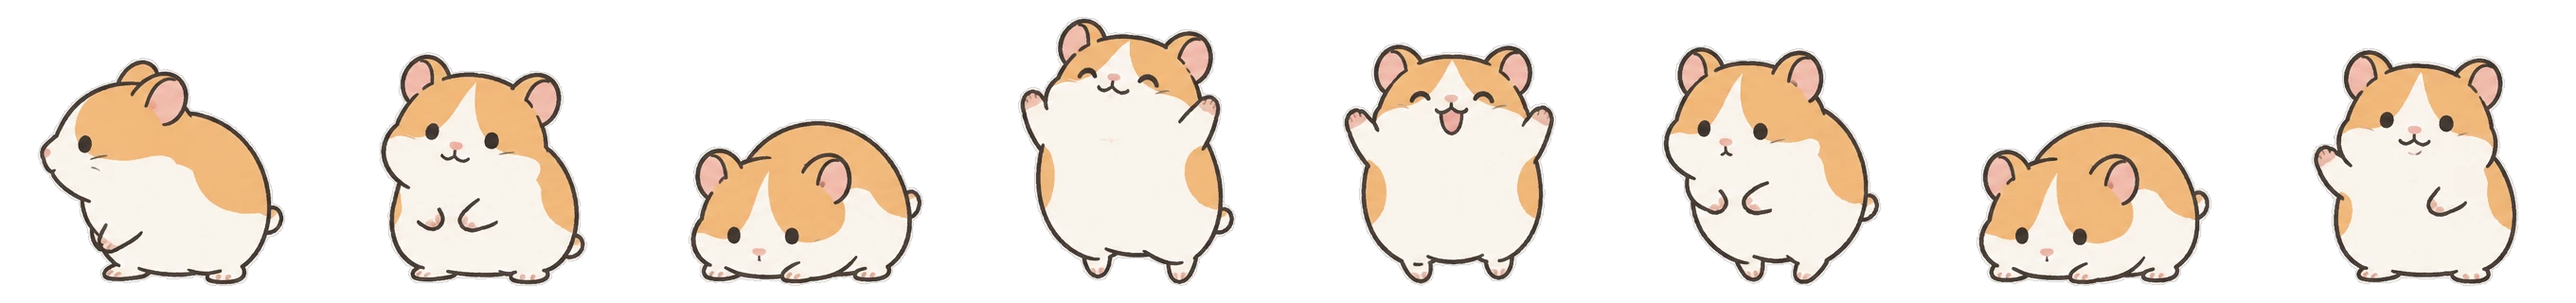
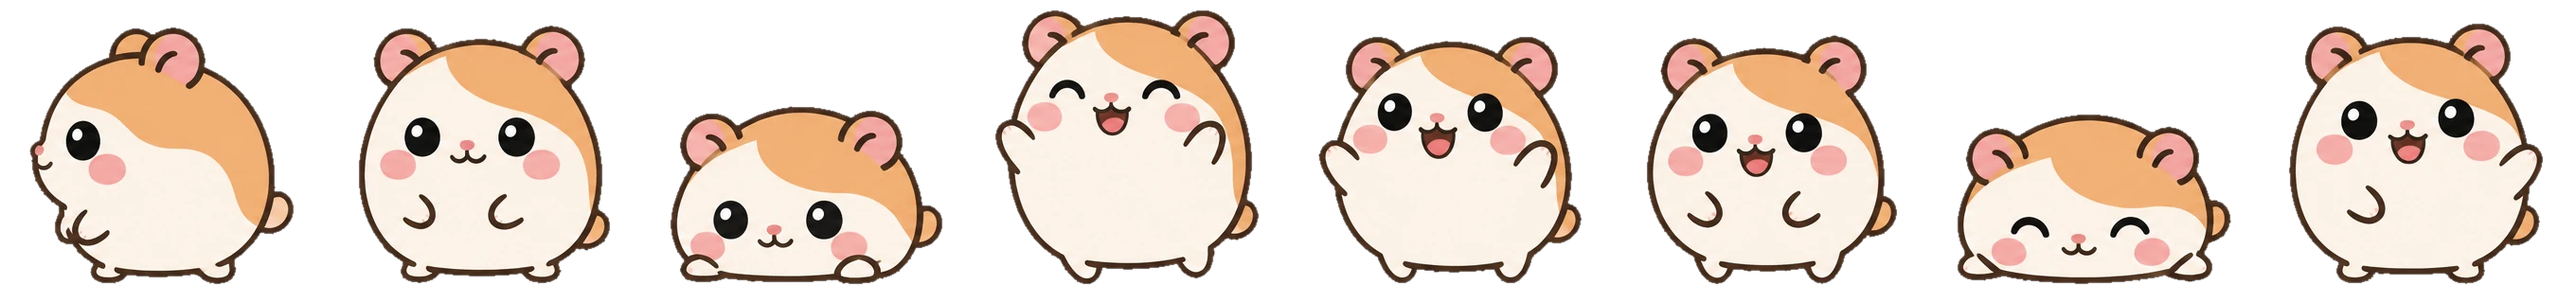
Search: hamster shows only its ears until the bar is tapped, then pops up (soft edge under the bar); invitation is a light sweep across the bar, a button nudge and a typed placeholder; loader: new flat chibi hamster walk and celebrate sprites
Claude-Session: https://claude.ai/code/session_015vAgjDeRSw6soRRSRcNB1f

Changed region(s): [[0.0, 0.0312, 1.0, 0.9375], [0.1562, 0.8438, 0.2188, 0.9375]]

diff --git a/slime.html b/slime.html
@@ -10435,7 +10435,7 @@ html body [data-view="home"] .zq{margin-top:-6px!important}
     /* the empty bar shows the headline's wish as a question; ค้นหา on an empty bar asks it */
     var cur='',tm=0;
     function setQ(){var w=(typ&&typ.textContent||'').trim();if(!w||w===cur)return;cur=w;form.classList.add('ph-sw');
-      setTimeout(function(){inp.setAttribute('placeholder','ลองถาม: อยาก'+w);form.classList.remove('ph-sw')},250)}
+      setTimeout(function(){form.classList.remove('ph-sw');if(window.__zqType)window.__zqType('ลองถาม: อยาก'+w);else inp.setAttribute('placeholder','ลองถาม: อยาก'+w)},250)}
     if(typ){new MutationObserver(function(){if(!inp.value&&inp.getAttribute('placeholder')!==(innerWidth<640?'ถามเราได้เลย':'พิมพ์ถามเราได้เลย น้องอยากทำอะไร'))inp.setAttribute('placeholder',(innerWidth<640?'ถามเราได้เลย':'พิมพ์ถามเราได้เลย น้องอยากทำอะไร'));clearTimeout(tm);tm=setTimeout(function(){var w=(typ.textContent||'').trim();if(w===cur){cur='';setQ()}else setQ()},700)}).observe(typ,{childList:true,characterData:true,subtree:true});setQ()}
     form.addEventListener('submit',function(){if(!inp.value.trim()&&cur){inp.value='อยาก'+cur;inp.dispatchEvent(new Event('input',{bubbles:true}))}},true);
     go&&go.addEventListener('pointerdown',function(){if(!inp.value.trim()&&cur){inp.value='อยาก'+cur;inp.dispatchEvent(new Event('input',{bubbles:true}))}});
@@ -10455,47 +10455,50 @@ html body [data-view="home"] .zq{margin-top:-6px!important}
 })();
 </script>
 <style id="ly-chibi">
-/* the search hamster: a chibi that peeks over the bar; after a while it points at the bar and taps it */
+/* the search hamster: only its ears show over the bar; it pops up when the visitor taps the bar */
 #zqHam{visibility:hidden!important}
-.zq-ch{position:absolute;z-index:5;width:106px;height:75px;cursor:pointer;background:url(img/ham-chibi.webp) 0 0/848px 75px no-repeat;
-  transform-origin:50% 100%;transition:transform .35s cubic-bezier(.3,1.6,.5,1);-webkit-tap-highlight-color:transparent}
-.zq-ch:hover{transform:translateY(-3px)}
-.zq-ch.hop{animation:zqChHop .5s cubic-bezier(.3,1.6,.5,1)}
-@keyframes zqChHop{40%{transform:translateY(-12px) scale(1.04,.97)}}
-.zq-tap{position:absolute;z-index:5;width:30px;height:12px;margin:-6px 0 0 -15px;border-radius:50%;border:2px solid rgba(242,166,94,.9);pointer-events:none;opacity:0}
-.zq-tap.go{animation:zqTap .6s ease-out}
-@keyframes zqTap{0%{opacity:.9;transform:scale(.3)}100%{opacity:0;transform:scale(1.7)}}
-@media (max-width:640px){.zq-ch{width:74px;height:52px;background-size:592px 52px}}
+.zq-ch{position:absolute;z-index:3;width:106px;height:75px;cursor:pointer;background:url(img/ham-chibi.webp) 0 0/848px 75px no-repeat;
+  transform:translateY(var(--hide,58px));transition:transform .5s cubic-bezier(.3,1.5,.5,1);-webkit-tap-highlight-color:transparent}
+.zq-ch:hover{transform:translateY(calc(var(--hide,58px) - 6px))}
+.zq-ch.up,.zq-ch.up:hover{transform:translateY(0)}
+@media (max-width:640px){.zq-ch{width:74px;height:52px;background-size:592px 52px;--hide:41px}}
 html body [data-view="home"] .zq .zq-sw{margin-top:46px!important}
 @media (max-width:640px){html body [data-view="home"] .zq .zq-sw{margin-top:44px!important}}
+/* the invitation lives on the bar itself: a warm light sweeps across it and the button nudges */
+.zq-sh{position:absolute;inset:0;border-radius:inherit;overflow:hidden;pointer-events:none;z-index:0}
+.zq-sh::before{content:"";position:absolute;top:0;bottom:0;left:-40%;width:34%;transform:skewX(-20deg) translateX(0);
+  background:linear-gradient(90deg,rgba(242,166,94,0),rgba(242,166,94,.22) 45%,rgba(255,214,150,.35) 50%,rgba(242,166,94,.22) 55%,rgba(242,166,94,0))}
+#zqForm.inv .zq-sh::before{animation:zqSweep 1.3s cubic-bezier(.45,0,.2,1)}
+@keyframes zqSweep{to{transform:skewX(-20deg) translateX(520%)}}
+#zqForm.inv .zq-go{animation:zqNudge .7s cubic-bezier(.3,1.6,.5,1) 1s}
+@keyframes zqNudge{30%{transform:scale(1.07)}60%{transform:scale(.97)}100%{transform:none}}
+#zqForm>*:not(.zq-sh):not(.zq-halo){position:relative;z-index:1}
+@media (prefers-reduced-motion:reduce){.zq-ch{transition:none}#zqForm.inv .zq-sh::before,#zqForm.inv .zq-go{animation:none}}
 </style>
 <script>
 (function(){
   function go(){var ham=document.getElementById('zqHam'),sw=ham&&ham.closest('.zq-sw'),inp=document.getElementById('zqIn'),form=document.getElementById('zqForm');if(!sw||sw.querySelector('.zq-ch'))return;
     if(getComputedStyle(sw).position==='static')sw.style.position='relative';
-    var rm=matchMedia('(prefers-reduced-motion: reduce)').matches,ch=document.createElement('div');ch.className='zq-ch';ch.setAttribute('aria-hidden','true');sw.appendChild(ch);
-    var tap=document.createElement('i');tap.className='zq-tap';sw.appendChild(tap);
-    var fw=0,cur=-1;
-    function fr(n){if(n===cur)return;cur=n;fw=ch.offsetWidth;ch.style.backgroundPosition=(-n*fw)+'px 0'}
-    function place(){var a=ham.getBoundingClientRect(),f=form.getBoundingClientRect(),r=sw.getBoundingClientRect();fw=ch.offsetWidth;
-      var cx=a.width?a.left+a.width/2:f.left+f.width*.62;ch.style.left=(cx-r.left-fw/2)+'px';ch.style.top=(f.top-r.top-ch.offsetHeight+3)+'px';var c=cur;cur=-1;fr(Math.max(0,c))}
+    var rm=matchMedia('(prefers-reduced-motion: reduce)').matches,ch=document.createElement('div');ch.className='zq-ch';ch.setAttribute('aria-hidden','true');sw.insertBefore(ch,sw.firstChild);
+    var sh=document.createElement('span');sh.className='zq-sh';sh.setAttribute('aria-hidden','true');form.insertBefore(sh,form.firstChild);
+    var cur=-1;function fr(n){if(n===cur)return;cur=n;ch.style.backgroundPosition=(-n*ch.offsetWidth)+'px 0'}
+    function place(){var a=ham.getBoundingClientRect(),f=form.getBoundingClientRect(),r=sw.getBoundingClientRect(),w=ch.offsetWidth;
+      var cx=a.width?a.left+a.width/2:f.left+f.width*.62;ch.style.left=(cx-r.left-w/2)+'px';ch.style.top=(f.top-r.top-ch.offsetHeight-14)+'px';var c=cur;cur=-1;fr(Math.max(0,c))}
     place();fr(0);addEventListener('resize',place);setTimeout(place,600);setTimeout(place,2000);
-    /* idle life: blink, sometimes a curious tilt */
-    var busy=false,used=false,T=[];function later(f,ms){T.push(setTimeout(f,ms))}
-    function blink(){if(!busy){fr(1);setTimeout(function(){if(!busy)fr(0)},140)}setTimeout(blink,2600+Math.random()*2600)}
-    function tilt(){if(!busy&&!rm){fr(2);setTimeout(function(){if(!busy)fr(0)},1100)}setTimeout(tilt,9000+Math.random()*5000)}
-    setTimeout(blink,1800);setTimeout(tilt,7000);
-    /* the hint: looks down at the bar, points, taps it twice, then looks at you with sparkly eyes */
-    function tapAt(){var c=ch.getBoundingClientRect(),r=sw.getBoundingClientRect();tap.style.left=(c.left-r.left+c.width*.28)+'px';tap.style.top=(c.bottom-r.top-2)+'px';tap.classList.remove('go');void tap.offsetWidth;tap.classList.add('go')}
-    function hint(){if(used||busy||document.activeElement===inp||inp.value)return;busy=true;var t=0,seq=[[3,650],[4,380],[5,170],[4,240],[5,170],[4,240],[6,1300],[0,0]];
-      seq.forEach(function(s){later(function(){fr(s[0]);if(s[0]===5)tapAt();if(s[0]===0)busy=false},t);t+=s[1]})}
-    var hi=0;function loop(){clearTimeout(hi);if(used)return;hi=setTimeout(function(){hint();loop()},9000)}
-    function first(){setTimeout(function(){hint();loop()},rm?99999999:3500)}if(document.getElementById('hhL'))addEventListener('hh:loaded',first,{once:true});else first();
-    function stop(){if(used)return;used=true;clearTimeout(hi);T.forEach(clearTimeout);busy=true;fr(7);ch.classList.remove('hop');void ch.offsetWidth;ch.classList.add('hop');setTimeout(function(){busy=false;fr(0)},900)}
-    inp.addEventListener('focus',stop);inp.addEventListener('input',stop);form.addEventListener('submit',stop);
+    var up=false;
+    function blink(){if(up&&cur===0){fr(1);setTimeout(function(){if(cur===1)fr(0)},140)}setTimeout(blink,2400+Math.random()*2400)}setTimeout(blink,2000);
+    function pop(){if(up)return;up=true;ch.classList.add('up');fr(6);setTimeout(function(){if(up)fr(0)},900)}
+    function down(){if(!up||inp.value||document.activeElement===inp)return;up=false;ch.classList.remove('up');fr(0)}
+    inp.addEventListener('focus',pop);inp.addEventListener('input',function(){if(!up)pop()});inp.addEventListener('blur',function(){setTimeout(down,250)});
     ch.addEventListener('click',function(){inp.focus()});
-    /* came back to the hero without trying: the hint starts again */
-    var zq=sw.closest('.zq');if(zq&&'IntersectionObserver' in window)new IntersectionObserver(function(es){if(es[0].isIntersecting&&!inp.value&&document.activeElement!==inp&&used){used=false;loop()}},{threshold:.5}).observe(zq)}
+    /* typewriter placeholder */
+    var tt=0;window.__zqType=function(t){clearTimeout(tt);if(rm||inp.value){inp.setAttribute('placeholder',t);return}var i=0;
+      (function step(){i++;inp.setAttribute('placeholder',t.slice(0,i)+(i<t.length?'|':''));if(i<t.length)tt=setTimeout(step,45)})()};
+    /* invitation: until the bar has been used, a light sweeps across it every few seconds */
+    var used=false,iv=0;function inv(){if(used||document.activeElement===inp)return;form.classList.remove('inv');void form.offsetWidth;form.classList.add('inv')}
+    function startInv(){if(rm)return;setTimeout(inv,1600);iv=setInterval(inv,6500)}
+    if(document.getElementById('hhL'))addEventListener('hh:loaded',startInv,{once:true});else startInv();
+    inp.addEventListener('focus',function(){used=true;clearInterval(iv);form.classList.remove('inv')})}
   if(document.readyState==='complete')go();else addEventListener('load',go);
 })();
 </script>

diff --git a/dev/builds/layers/99zzzzzz-search.html b/dev/builds/layers/99zzzzzz-search.html
@@ -38,7 +38,7 @@ html body [data-view="home"] .zq{margin-top:-6px!important}
     /* the empty bar shows the headline's wish as a question; ค้นหา on an empty bar asks it */
     var cur='',tm=0;
     function setQ(){var w=(typ&&typ.textContent||'').trim();if(!w||w===cur)return;cur=w;form.classList.add('ph-sw');
-      setTimeout(function(){inp.setAttribute('placeholder','ลองถาม: อยาก'+w);form.classList.remove('ph-sw')},250)}
+      setTimeout(function(){form.classList.remove('ph-sw');if(window.__zqType)window.__zqType('ลองถาม: อยาก'+w);else inp.setAttribute('placeholder','ลองถาม: อยาก'+w)},250)}
     if(typ){new MutationObserver(function(){if(!inp.value&&inp.getAttribute('placeholder')!==(innerWidth<640?'ถามเราได้เลย':'พิมพ์ถามเราได้เลย น้องอยากทำอะไร'))inp.setAttribute('placeholder',(innerWidth<640?'ถามเราได้เลย':'พิมพ์ถามเราได้เลย น้องอยากทำอะไร'));clearTimeout(tm);tm=setTimeout(function(){var w=(typ.textContent||'').trim();if(w===cur){cur='';setQ()}else setQ()},700)}).observe(typ,{childList:true,characterData:true,subtree:true});setQ()}
     form.addEventListener('submit',function(){if(!inp.value.trim()&&cur){inp.value='อยาก'+cur;inp.dispatchEvent(new Event('input',{bubbles:true}))}},true);
     go&&go.addEventListener('pointerdown',function(){if(!inp.value.trim()&&cur){inp.value='อยาก'+cur;inp.dispatchEvent(new Event('input',{bubbles:true}))}});
@@ -58,47 +58,50 @@ html body [data-view="home"] .zq{margin-top:-6px!important}
 })();
 </script>
 <style id="ly-chibi">
-/* the search hamster: a chibi that peeks over the bar; after a while it points at the bar and taps it */
+/* the search hamster: only its ears show over the bar; it pops up when the visitor taps the bar */
 #zqHam{visibility:hidden!important}
-.zq-ch{position:absolute;z-index:5;width:106px;height:75px;cursor:pointer;background:url(img/ham-chibi.webp) 0 0/848px 75px no-repeat;
-  transform-origin:50% 100%;transition:transform .35s cubic-bezier(.3,1.6,.5,1);-webkit-tap-highlight-color:transparent}
-.zq-ch:hover{transform:translateY(-3px)}
-.zq-ch.hop{animation:zqChHop .5s cubic-bezier(.3,1.6,.5,1)}
-@keyframes zqChHop{40%{transform:translateY(-12px) scale(1.04,.97)}}
-.zq-tap{position:absolute;z-index:5;width:30px;height:12px;margin:-6px 0 0 -15px;border-radius:50%;border:2px solid rgba(242,166,94,.9);pointer-events:none;opacity:0}
-.zq-tap.go{animation:zqTap .6s ease-out}
-@keyframes zqTap{0%{opacity:.9;transform:scale(.3)}100%{opacity:0;transform:scale(1.7)}}
-@media (max-width:640px){.zq-ch{width:74px;height:52px;background-size:592px 52px}}
+.zq-ch{position:absolute;z-index:3;width:106px;height:75px;cursor:pointer;background:url(img/ham-chibi.webp) 0 0/848px 75px no-repeat;
+  transform:translateY(var(--hide,58px));transition:transform .5s cubic-bezier(.3,1.5,.5,1);-webkit-tap-highlight-color:transparent}
+.zq-ch:hover{transform:translateY(calc(var(--hide,58px) - 6px))}
+.zq-ch.up,.zq-ch.up:hover{transform:translateY(0)}
+@media (max-width:640px){.zq-ch{width:74px;height:52px;background-size:592px 52px;--hide:41px}}
 html body [data-view="home"] .zq .zq-sw{margin-top:46px!important}
 @media (max-width:640px){html body [data-view="home"] .zq .zq-sw{margin-top:44px!important}}
+/* the invitation lives on the bar itself: a warm light sweeps across it and the button nudges */
+.zq-sh{position:absolute;inset:0;border-radius:inherit;overflow:hidden;pointer-events:none;z-index:0}
+.zq-sh::before{content:"";position:absolute;top:0;bottom:0;left:-40%;width:34%;transform:skewX(-20deg) translateX(0);
+  background:linear-gradient(90deg,rgba(242,166,94,0),rgba(242,166,94,.22) 45%,rgba(255,214,150,.35) 50%,rgba(242,166,94,.22) 55%,rgba(242,166,94,0))}
+#zqForm.inv .zq-sh::before{animation:zqSweep 1.3s cubic-bezier(.45,0,.2,1)}
+@keyframes zqSweep{to{transform:skewX(-20deg) translateX(520%)}}
+#zqForm.inv .zq-go{animation:zqNudge .7s cubic-bezier(.3,1.6,.5,1) 1s}
+@keyframes zqNudge{30%{transform:scale(1.07)}60%{transform:scale(.97)}100%{transform:none}}
+#zqForm>*:not(.zq-sh):not(.zq-halo){position:relative;z-index:1}
+@media (prefers-reduced-motion:reduce){.zq-ch{transition:none}#zqForm.inv .zq-sh::before,#zqForm.inv .zq-go{animation:none}}
 </style>
 <script>
 (function(){
   function go(){var ham=document.getElementById('zqHam'),sw=ham&&ham.closest('.zq-sw'),inp=document.getElementById('zqIn'),form=document.getElementById('zqForm');if(!sw||sw.querySelector('.zq-ch'))return;
     if(getComputedStyle(sw).position==='static')sw.style.position='relative';
-    var rm=matchMedia('(prefers-reduced-motion: reduce)').matches,ch=document.createElement('div');ch.className='zq-ch';ch.setAttribute('aria-hidden','true');sw.appendChild(ch);
-    var tap=document.createElement('i');tap.className='zq-tap';sw.appendChild(tap);
-    var fw=0,cur=-1;
-    function fr(n){if(n===cur)return;cur=n;fw=ch.offsetWidth;ch.style.backgroundPosition=(-n*fw)+'px 0'}
-    function place(){var a=ham.getBoundingClientRect(),f=form.getBoundingClientRect(),r=sw.getBoundingClientRect();fw=ch.offsetWidth;
-      var cx=a.width?a.left+a.width/2:f.left+f.width*.62;ch.style.left=(cx-r.left-fw/2)+'px';ch.style.top=(f.top-r.top-ch.offsetHeight+3)+'px';var c=cur;cur=-1;fr(Math.max(0,c))}
+    var rm=matchMedia('(prefers-reduced-motion: reduce)').matches,ch=document.createElement('div');ch.className='zq-ch';ch.setAttribute('aria-hidden','true');sw.insertBefore(ch,sw.firstChild);
+    var sh=document.createElement('span');sh.className='zq-sh';sh.setAttribute('aria-hidden','true');form.insertBefore(sh,form.firstChild);
+    var cur=-1;function fr(n){if(n===cur)return;cur=n;ch.style.backgroundPosition=(-n*ch.offsetWidth)+'px 0'}
+    function place(){var a=ham.getBoundingClientRect(),f=form.getBoundingClientRect(),r=sw.getBoundingClientRect(),w=ch.offsetWidth;
+      var cx=a.width?a.left+a.width/2:f.left+f.width*.62;ch.style.left=(cx-r.left-w/2)+'px';ch.style.top=(f.top-r.top-ch.offsetHeight-14)+'px';var c=cur;cur=-1;fr(Math.max(0,c))}
     place();fr(0);addEventListener('resize',place);setTimeout(place,600);setTimeout(place,2000);
-    /* idle life: blink, sometimes a curious tilt */
-    var busy=false,used=false,T=[];function later(f,ms){T.push(setTimeout(f,ms))}
-    function blink(){if(!busy){fr(1);setTimeout(function(){if(!busy)fr(0)},140)}setTimeout(blink,2600+Math.random()*2600)}
-    function tilt(){if(!busy&&!rm){fr(2);setTimeout(function(){if(!busy)fr(0)},1100)}setTimeout(tilt,9000+Math.random()*5000)}
-    setTimeout(blink,1800);setTimeout(tilt,7000);
-    /* the hint: looks down at the bar, points, taps it twice, then looks at you with sparkly eyes */
-    function tapAt(){var c=ch.getBoundingClientRect(),r=sw.getBoundingClientRect();tap.style.left=(c.left-r.left+c.width*.28)+'px';tap.style.top=(c.bottom-r.top-2)+'px';tap.classList.remove('go');void tap.offsetWidth;tap.classList.add('go')}
-    function hint(){if(used||busy||document.activeElement===inp||inp.value)return;busy=true;var t=0,seq=[[3,650],[4,380],[5,170],[4,240],[5,170],[4,240],[6,1300],[0,0]];
-      seq.forEach(function(s){later(function(){fr(s[0]);if(s[0]===5)tapAt();if(s[0]===0)busy=false},t);t+=s[1]})}
-    var hi=0;function loop(){clearTimeout(hi);if(used)return;hi=setTimeout(function(){hint();loop()},9000)}
-    function first(){setTimeout(function(){hint();loop()},rm?99999999:3500)}if(document.getElementById('hhL'))addEventListener('hh:loaded',first,{once:true});else first();
-    function stop(){if(used)return;used=true;clearTimeout(hi);T.forEach(clearTimeout);busy=true;fr(7);ch.classList.remove('hop');void ch.offsetWidth;ch.classList.add('hop');setTimeout(function(){busy=false;fr(0)},900)}
-    inp.addEventListener('focus',stop);inp.addEventListener('input',stop);form.addEventListener('submit',stop);
+    var up=false;
+    function blink(){if(up&&cur===0){fr(1);setTimeout(function(){if(cur===1)fr(0)},140)}setTimeout(blink,2400+Math.random()*2400)}setTimeout(blink,2000);
+    function pop(){if(up)return;up=true;ch.classList.add('up');fr(6);setTimeout(function(){if(up)fr(0)},900)}
+    function down(){if(!up||inp.value||document.activeElement===inp)return;up=false;ch.classList.remove('up');fr(0)}
+    inp.addEventListener('focus',pop);inp.addEventListener('input',function(){if(!up)pop()});inp.addEventListener('blur',function(){setTimeout(down,250)});
     ch.addEventListener('click',function(){inp.focus()});
-    /* came back to the hero without trying: the hint starts again */
-    var zq=sw.closest('.zq');if(zq&&'IntersectionObserver' in window)new IntersectionObserver(function(es){if(es[0].isIntersecting&&!inp.value&&document.activeElement!==inp&&used){used=false;loop()}},{threshold:.5}).observe(zq)}
+    /* typewriter placeholder */
+    var tt=0;window.__zqType=function(t){clearTimeout(tt);if(rm||inp.value){inp.setAttribute('placeholder',t);return}var i=0;
+      (function step(){i++;inp.setAttribute('placeholder',t.slice(0,i)+(i<t.length?'|':''));if(i<t.length)tt=setTimeout(step,45)})()};
+    /* invitation: until the bar has been used, a light sweeps across it every few seconds */
+    var used=false,iv=0;function inv(){if(used||document.activeElement===inp)return;form.classList.remove('inv');void form.offsetWidth;form.classList.add('inv')}
+    function startInv(){if(rm)return;setTimeout(inv,1600);iv=setInterval(inv,6500)}
+    if(document.getElementById('hhL'))addEventListener('hh:loaded',startInv,{once:true});else startInv();
+    inp.addEventListener('focus',function(){used=true;clearInterval(iv);form.classList.remove('inv')})}
   if(document.readyState==='complete')go();else addEventListener('load',go);
 })();
 </script>
